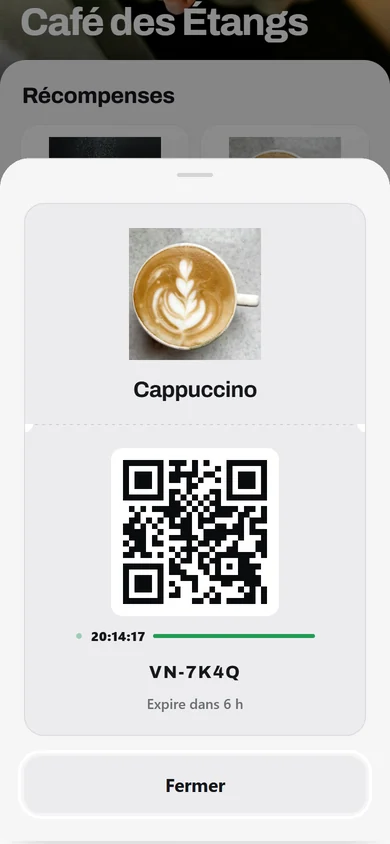
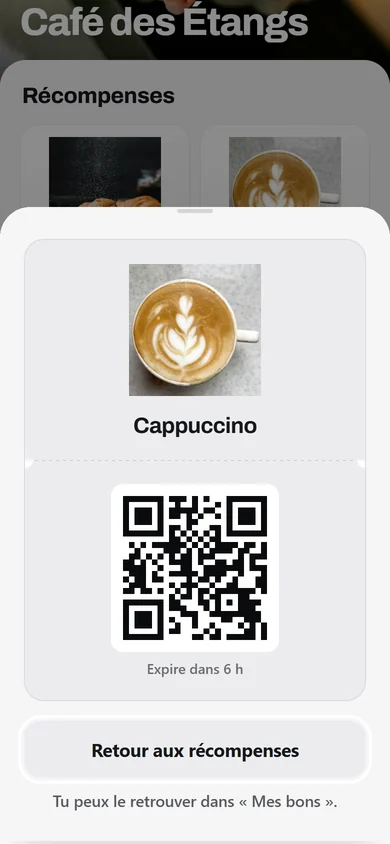
Site : etape 1 = la vraie affiche QR de l'appli gerants et l'ecran de l'appli apres un scan (+20 points pour ton arrivee) ; bon de l'etape 3 comme dans l'appli (QR, Expire dans 6 h, Tu peux le retrouver dans Mes bons) ; plus d'ilot noir sur les telephones

Changed region(s): [[0.0, 0.1848, 1.0, 0.955], [0.6462, 0.9242, 0.8308, 0.955]]

diff --git a/index.html b/index.html
@@ -185,8 +185,9 @@
                   </div>
                 </div>
               </div>
-              <div class="etape-visuel visuel-photo" aria-hidden="true">
-                <img src="/site/etape-qr-propre.webp" alt="" width="1000" height="760" loading="lazy" />
+              <div class="etape-visuel visuel-nu visuel-scan" aria-hidden="true">
+                <img class="scan-affiche" src="/site/affiche-noctify.webp" alt="" width="620" height="877" loading="lazy" />
+                <div class="tel tel-scan"><div class="tel-ecran"><img class="ecran actif" src="/site/ecran-scan-app.webp" alt="" width="390" height="844" loading="lazy" /></div></div>
               </div>
             </article>
 
@@ -233,7 +234,7 @@
                   <div class="tel-ecran">
                     <img class="ecran ecran-1" src="/site/ecran-fiche.webp?v=2" alt="" width="390" height="844" loading="lazy" />
                     <img class="ecran ecran-2" src="/site/ecran-fiche-app.webp" alt="" width="390" height="844" loading="lazy" />
-                    <img class="ecran ecran-3" src="/site/ecran-bon-app.webp" alt="" width="390" height="844" loading="lazy" />
+                    <img class="ecran ecran-3" src="/site/ecran-bon-app.webp?v=2" alt="" width="390" height="844" loading="lazy" />
                     <span class="doigt" aria-hidden="true"></span>
                   </div>
                 </div>

diff --git a/site.css b/site.css
@@ -2661,6 +2661,57 @@ html.style-carte .membre-tampons li span {
   }
 }
 
+/* Pas d'ilot noir en haut des telephones : on ne cherche pas le realisme. */
+.tel::before {
+  display: none !important;
+}
+
+/* Etape 1 : la vraie affiche QR et l'appli apres le scan */
+.visuel-scan {
+  position: relative;
+  height: 520px !important;
+}
+.scan-affiche {
+  position: absolute;
+  left: 6%;
+  top: 60px;
+  width: 290px !important;
+  height: auto !important;
+  max-width: none;
+  aspect-ratio: 620 / 877;
+  object-fit: contain;
+  border-radius: 14px;
+  transform: rotate(-5deg);
+  box-shadow: 0 40px 70px -30px rgba(0, 0, 0, 0.55);
+}
+.tel-scan {
+  position: absolute !important;
+  right: 6%;
+  bottom: 10px;
+  width: 210px !important;
+}
+.tel-scan .ecran {
+  position: absolute;
+  inset: 0;
+  width: 100%;
+  height: 100%;
+  object-fit: cover;
+}
+@media (max-width: 560px) {
+  .visuel-scan {
+    height: 430px !important;
+  }
+  .scan-affiche {
+    width: 200px !important;
+    left: 0;
+    top: 40px;
+  }
+  .tel-scan {
+    width: 170px !important;
+    right: 0;
+  }
+}
+
 [hidden] {
   display: none !important;
 }

diff --git a/app-preview.html b/app-preview.html
@@ -17725,16 +17725,13 @@ window.noctifyBonApercu = async function (nom, photo) {
         "</div>" +
         '<div class="bt-souche">' +
           '<div class="bt-qr">' + svgQr + "</div>" +
-          bandeauVivant() +
-          '<p class="bt-code">VN-7K4Q</p>' +
-          '<p class="bt-validite">' + compteARebours(Date.now() + 6 * 3600 * 1000) + "</p>" +
+          '<p class="bt-validite">Expire dans 6 h</p>' +
         "</div>" +
       "</div>" +
-      '<button class="sheet-cta sobre" id="sh-ok" type="button">Fermer</button>' +
+      '<button class="sheet-cta sobre" id="sh-ok" type="button">Retour aux récompenses</button>' +
+      '<p class="sheet-note">Tu peux le retrouver dans « Mes bons ».</p>' +
     "</div>";
   ouvrirFeuille(html, "#sh-ok");
-  var h = document.querySelector("#sheet .bt-heure");
-  if (h) h.textContent = new Date().toLocaleTimeString("fr-BE", { hour: "2-digit", minute: "2-digit", second: "2-digit" });
 };
 
 (function rendreGains() {
